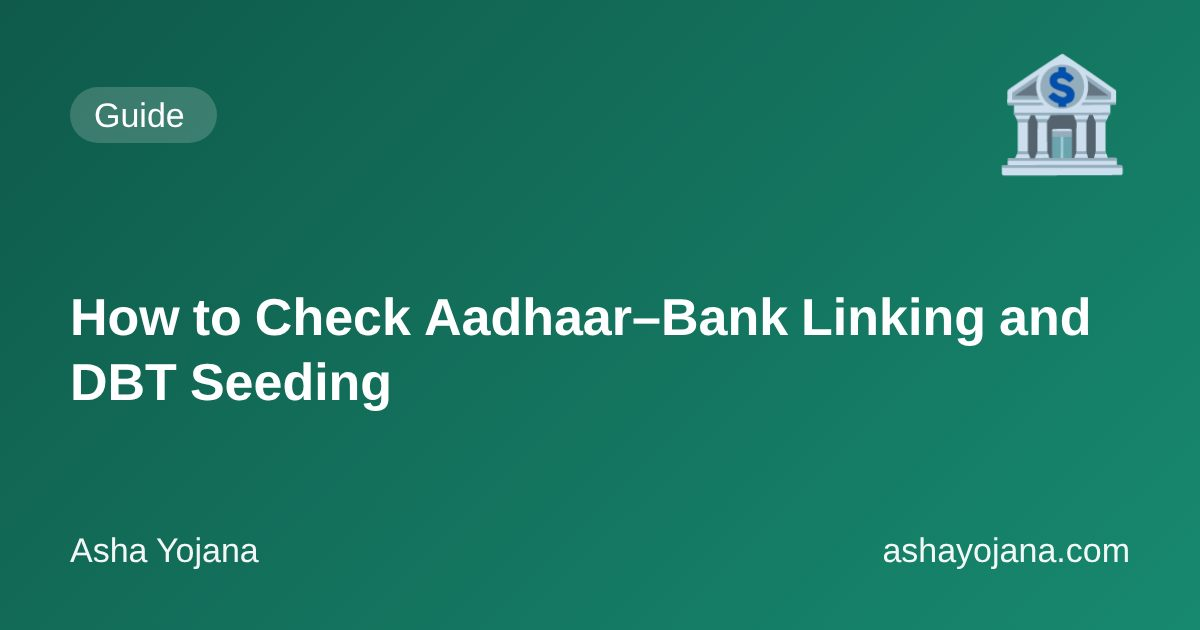
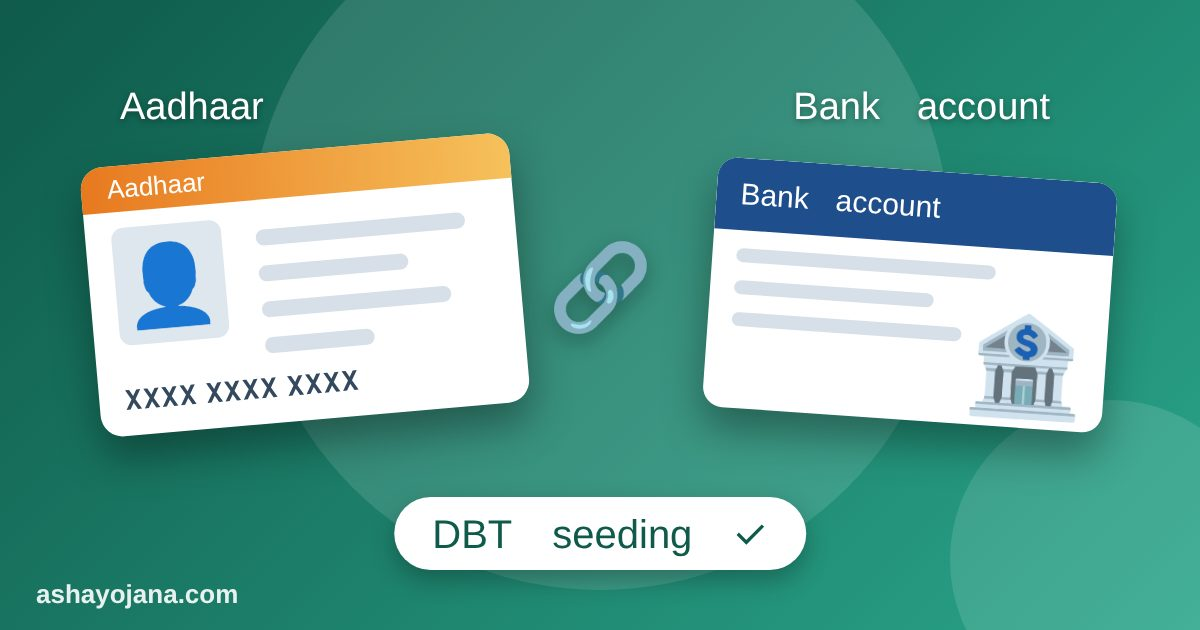
Custom Aadhaar-bank-DBT guide image (generic ID card + passbook + link)
Claude-Session: https://claude.ai/code/session_01FxjeQ8gZjfGuMZY4Fy5dii

diff --git a/tools/make_images.py b/tools/make_images.py
@@ -11,7 +11,7 @@ os.makedirs("img", exist_ok=True)
 F = os.path.abspath("fonts")
 CSS = f"""@font-face{{font-family:N;font-weight:700;src:url(file://{F}/noto-sans-devanagari-devanagari-700-normal.woff2);unicode-range:U+0900-097F,U+1CD0-1CF9,U+200C-200D,U+20A8,U+20B9,U+25CC,U+A830-A839,U+A8E0-A8FF}}
 @font-face{{font-family:N;font-weight:700;src:url(file://{F}/noto-sans-devanagari-latin-700-normal.woff2);unicode-range:U+0000-00FF,U+0131,U+0152-0153,U+2000-206F,U+20AC,U+2122}}
-*{{margin:0;box-sizing:border-box}}body{{width:1200px;height:630px;background:linear-gradient(135deg,#0f5a4a,#17896f);font-family:N,'Noto Color Emoji',sans-serif;color:#fff;padding:60px 70px;display:flex;flex-direction:column;justify-content:space-between}}
+*{{margin:0;box-sizing:border-box;word-spacing:-10px}}body{{width:1200px;height:630px;background:linear-gradient(135deg,#0f5a4a,#17896f);font-family:N,'Noto Color Emoji',sans-serif;color:#fff;padding:60px 70px;display:flex;flex-direction:column;justify-content:space-between}}
 .top{{display:flex;justify-content:space-between;align-items:center;font-size:34px}}.chip{{background:rgba(255,255,255,.18);padding:8px 24px;border-radius:40px}}
 .ic{{font-size:110px;line-height:1}}h1{{font-size:{{fs}}px;line-height:1.25;font-weight:700}}
 .bot{{display:flex;justify-content:space-between;font-size:34px;opacity:.95}}"""
@@ -31,12 +31,41 @@ SCENES = {"stand-up-india-extended-2031":["🏭","💼","👩💼"],"pm-surya
 def scene(em, cat, site, date):
     c1, c2 = SCENE_BG[cat]
     a, b2, c = (em + ["📄","📄"])[:3]
-    return f"""<html><head><meta charset=utf-8><style>*{{margin:0;box-sizing:border-box}}body{{width:1200px;height:630px;overflow:hidden;position:relative;background:linear-gradient(135deg,{c1},{c2});font-family:'Noto Color Emoji',sans-serif}}
+    return f"""<html><head><meta charset=utf-8><style>*{{margin:0;box-sizing:border-box;word-spacing:-10px}}body{{width:1200px;height:630px;overflow:hidden;position:relative;background:linear-gradient(135deg,{c1},{c2});font-family:'Noto Color Emoji',sans-serif}}
 .o{{position:absolute;border-radius:50%;background:rgba(255,255,255,.16)}}.e{{position:absolute;line-height:1;filter:drop-shadow(0 14px 18px rgba(0,0,0,.28))}}
 .s{{position:absolute;left:36px;bottom:24px;font:700 28px sans-serif;color:#fff;opacity:.9;text-shadow:0 2px 6px rgba(0,0,0,.35)}}.d{{position:absolute;right:36px;bottom:24px;font:700 26px sans-serif;color:#fff;opacity:.85;text-shadow:0 2px 6px rgba(0,0,0,.35)}}</style></head><body>
 <div class=o style="width:760px;height:760px;left:220px;top:-70px"></div><div class=o style="width:360px;height:360px;left:-80px;top:330px"></div><div class=o style="width:300px;height:300px;right:-60px;top:-60px"></div>
 <div class=e style="font-size:330px;left:405px;top:130px">{a}</div><div class=e style="font-size:190px;left:150px;top:300px;transform:rotate(-8deg)">{b2}</div><div class=e style="font-size:190px;right:140px;top:90px;transform:rotate(8deg)">{c}</div>
 <div class=s>ashayojana.com</div><div class=d>{date}</div></body></html>"""
+
+# ---- custom art for the Aadhaar-bank-DBT guide: generic ID card + passbook + link (no UIDAI logo / national emblem on purpose) ----
+def dbt_art(lang):
+    hi = lang == "hi"
+    l1 = "आधार" if hi else "Aadhaar"; l2 = "बैंक खाता" if hi else "Bank account"; l3 = "DBT सीडिंग ✓" if hi else "DBT seeding ✓"
+    nm = "नाम · जन्मतिथि" if hi else "Name · Date of birth"
+    return f"""<html><head><meta charset=utf-8><style>@font-face{{font-family:N;font-weight:700;src:url(file://{F}/noto-sans-devanagari-devanagari-700-normal.woff2);unicode-range:U+0900-097F,U+200C-200D}}
+@font-face{{font-family:N;font-weight:700;src:url(file://{F}/noto-sans-devanagari-latin-700-normal.woff2);unicode-range:U+0000-00FF,U+2000-206F,U+2713}}
+*{{margin:0;box-sizing:border-box;word-spacing:-10px}}body{{width:1200px;height:630px;overflow:hidden;position:relative;background:linear-gradient(135deg,#0f5a4a,#2aa58a);font-family:N,'Noto Color Emoji',sans-serif;color:#fff}}
+.o{{position:absolute;border-radius:50%;background:rgba(255,255,255,.12)}}
+.card{{position:absolute;left:90px;top:150px;width:430px;height:270px;background:#fff;border-radius:22px;box-shadow:0 22px 40px rgba(0,0,0,.35);transform:rotate(-5deg);color:#1b2b3a;padding:22px 26px}}
+.card .bar{{position:absolute;left:0;top:0;right:0;height:46px;border-radius:22px 22px 0 0;background:linear-gradient(90deg,#e8791f,#f6c15b)}}
+.card .t{{position:absolute;top:8px;left:26px;font-size:26px;color:#fff}}
+.ph{{position:absolute;left:26px;top:62px;width:110px;height:118px;border-radius:12px;background:#dfe7ee;font-size:78px;text-align:center;line-height:122px;color:#9fb0bf}}
+.ln{{position:absolute;left:170px;height:16px;border-radius:8px;background:#d7e0e8}}
+.num{{position:absolute;left:26px;bottom:20px;font:700 27px monospace;letter-spacing:2px;white-space:nowrap;color:#34495e}}
+.pb{{position:absolute;right:90px;top:170px;width:400px;height:250px;background:#fff;border-radius:20px;box-shadow:0 22px 40px rgba(0,0,0,.35);transform:rotate(4deg);color:#1b2b3a;overflow:hidden}}
+.pb .h{{height:72px;background:#1f4e8c;color:#fff;font-size:30px;padding:18px 24px}}
+.pb .r{{height:14px;margin:18px 24px 0;border-radius:7px;background:#d7e0e8}}
+.pb .bk{{position:absolute;right:20px;bottom:6px;font-size:96px;opacity:.9}}
+.link{{position:absolute;left:520px;top:238px;width:160px;text-align:center;font-size:84px;filter:drop-shadow(0 8px 10px rgba(0,0,0,.3))}}
+.chip{{position:absolute;bottom:60px;left:50%;transform:translateX(-50%);background:#fff;color:#0f5a4a;border-radius:44px;padding:12px 38px;font-size:40px;box-shadow:0 10px 24px rgba(0,0,0,.28);white-space:nowrap}}
+.lab{{position:absolute;top:84px;font-size:38px;text-shadow:0 2px 6px rgba(0,0,0,.35)}}
+.s{{position:absolute;left:36px;bottom:20px;font:700 26px sans-serif;opacity:.9}}</style></head><body>
+<div class=o style="width:700px;height:700px;left:250px;top:-110px"></div><div class=o style="width:320px;height:320px;right:-70px;bottom:-90px"></div>
+<div class=lab style="left:120px">{l1}</div><div class=lab style="right:150px">{l2}</div>
+<div class=card><div class=bar></div><div class=t>{l1}</div><div class=ph>👤</div><div class=ln style="top:76px;width:210px"></div><div class=ln style="top:112px;width:150px"></div><div class=ln style="top:148px;width:190px"></div><div class=ln style="top:184px;width:110px"></div><div class=num>XXXX XXXX XXXX</div></div>
+<div class=pb><div class=h>{l2}</div><div class=r style="width:260px"></div><div class=r style="width:200px"></div><div class=r style="width:230px"></div><div class=bk>🏦</div></div>
+<div class=link>🔗</div><div class=chip>{l3}</div><div class=s>ashayojana.com</div></body></html>"""
 CATEN = build.CATS_EN
 with sync_playwright() as p:
     b = p.chromium.launch(); pg = b.new_page(viewport={"width":1200,"height":630})
@@ -68,7 +97,7 @@ with sync_playwright() as p:
             cat = "गाइड" if lang=="hi" else "Guide"
             site = "आशा योजना" if lang=="hi" else "Asha Yojana"
             fs = 64 if len(nm) < 45 else 52
-            pg.set_content(card(g["icon"], nm, cat, site, "ashayojana.com", fs)); pg.wait_for_timeout(60)
+            pg.set_content(dbt_art(lang) if g["slug"] == "aadhaar-bank-dbt-seeding" else card(g["icon"], nm, cat, site, "ashayojana.com", fs)); pg.wait_for_timeout(120)
             pg.screenshot(path=f"img/guide-{g['slug']}-{lang}.jpg", type="jpeg", quality=82)
     b.close()
 sys.path.insert(0, "tools")
